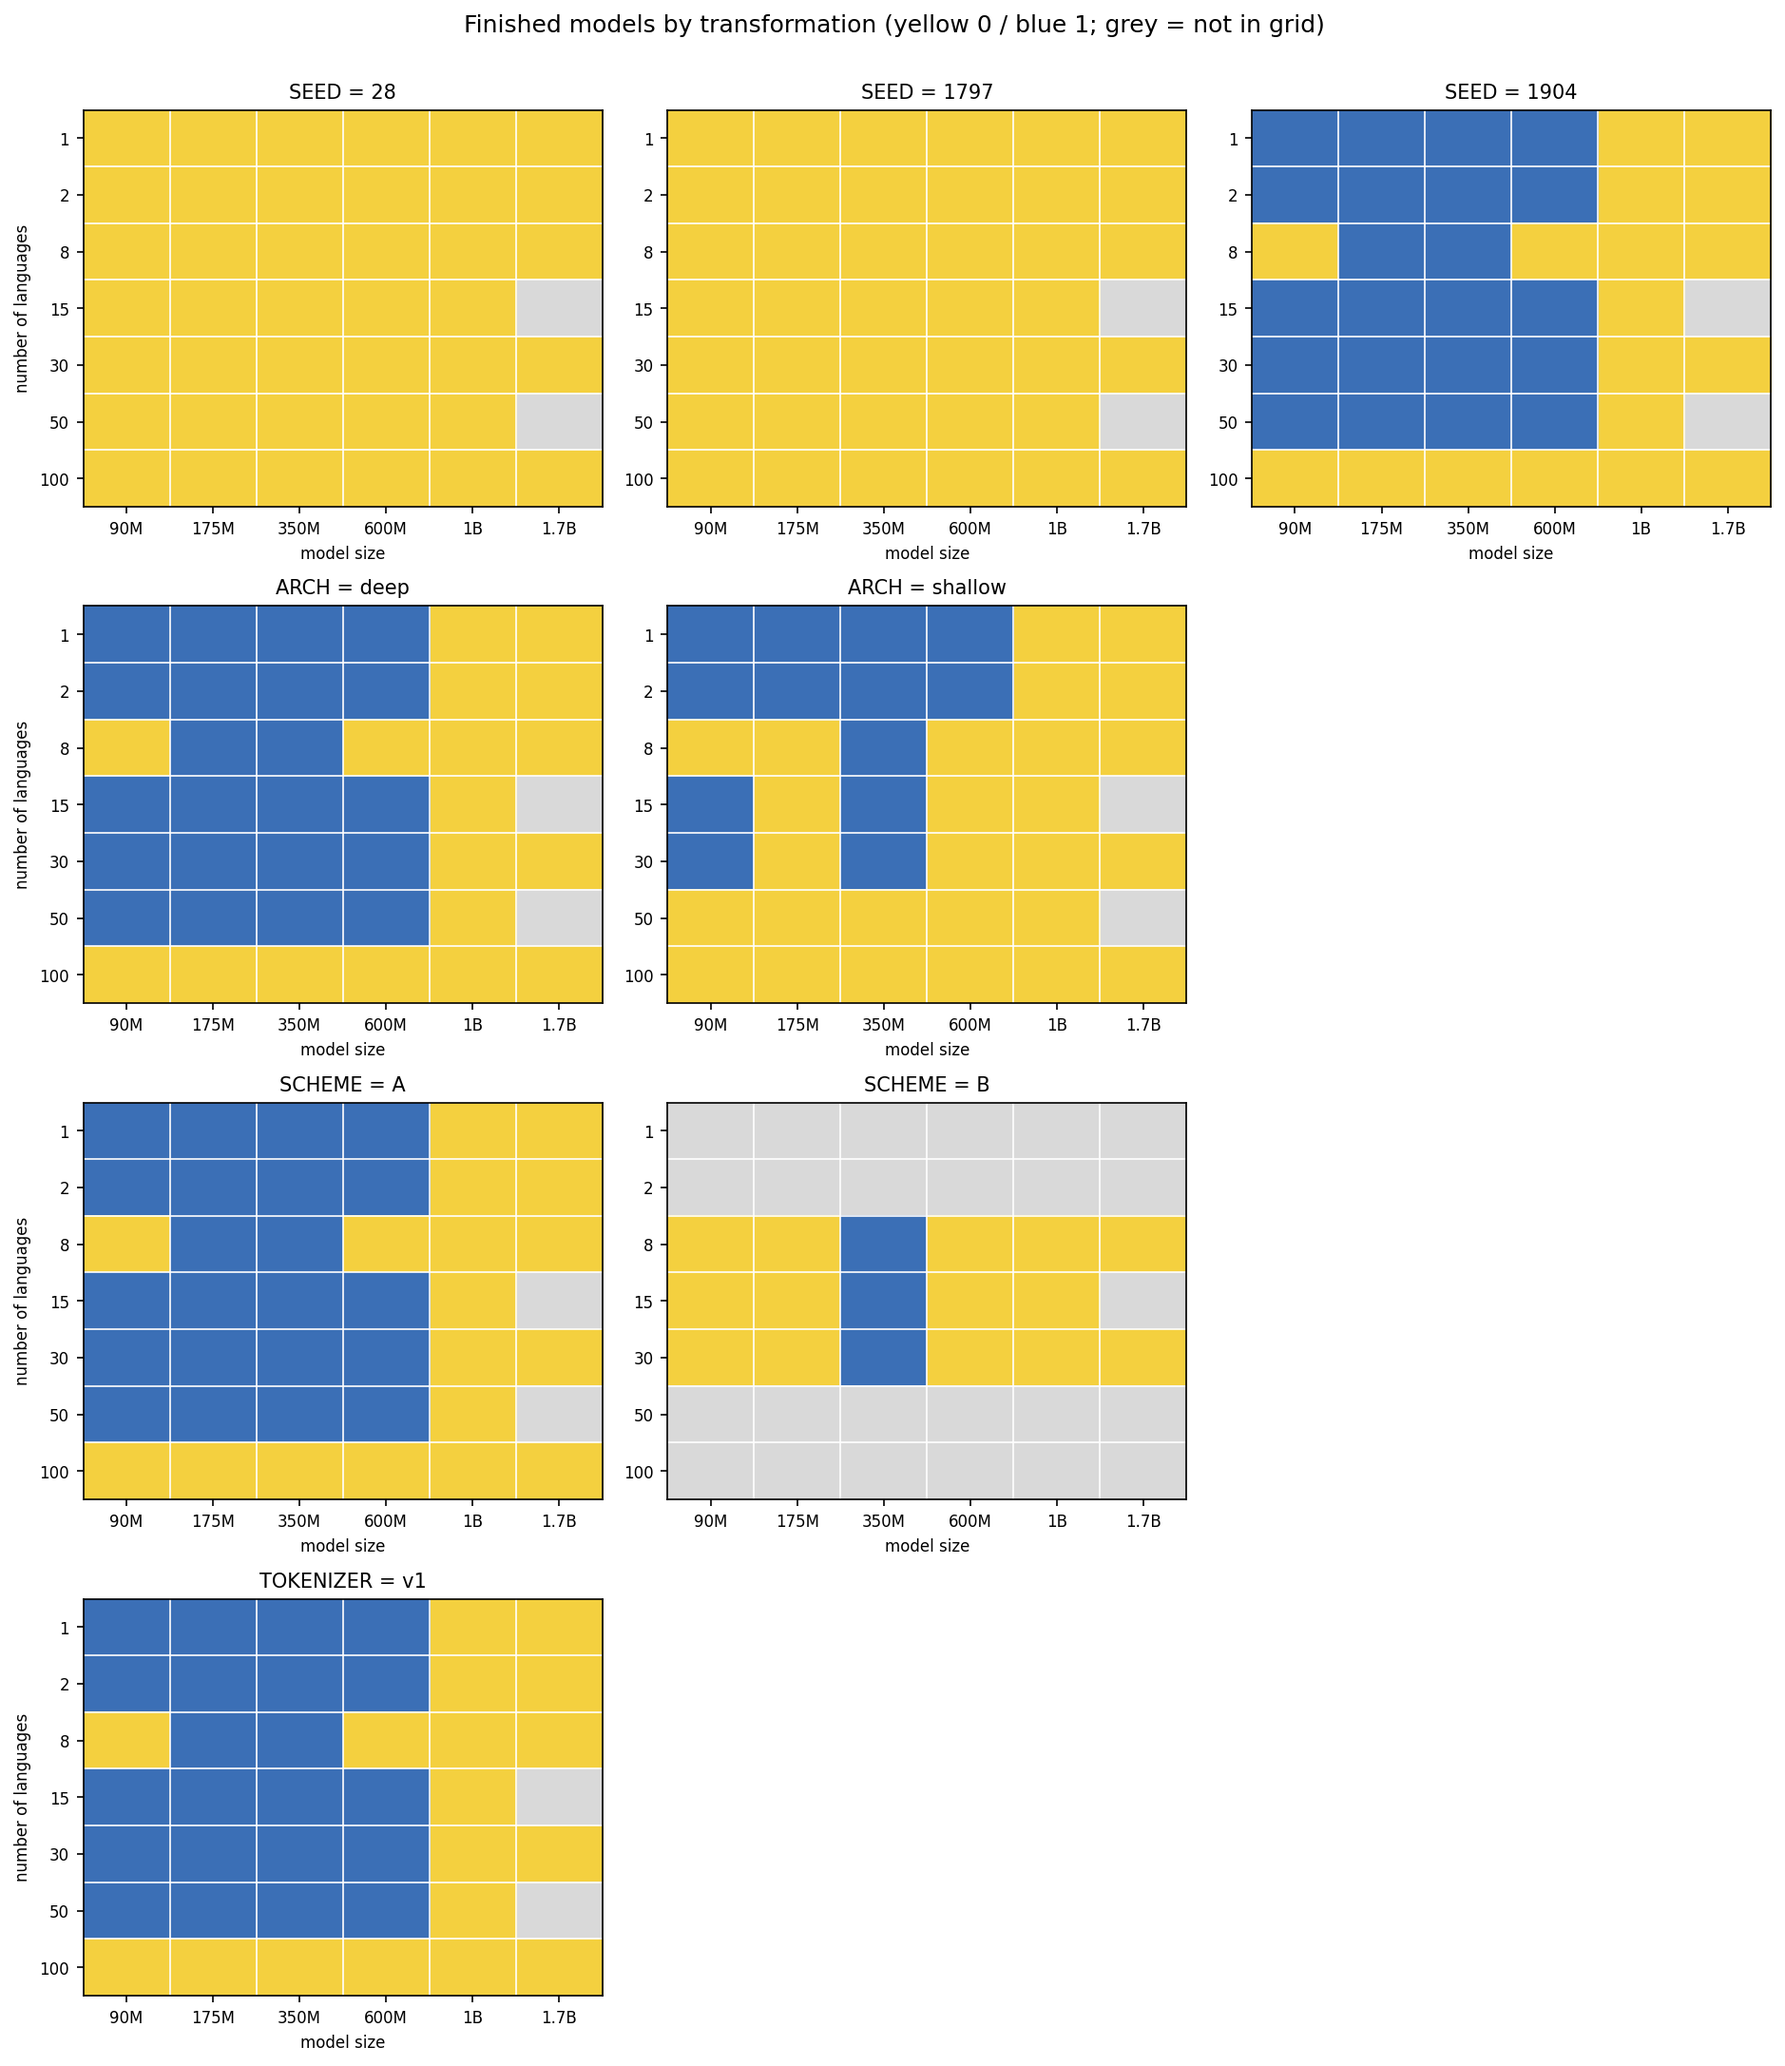
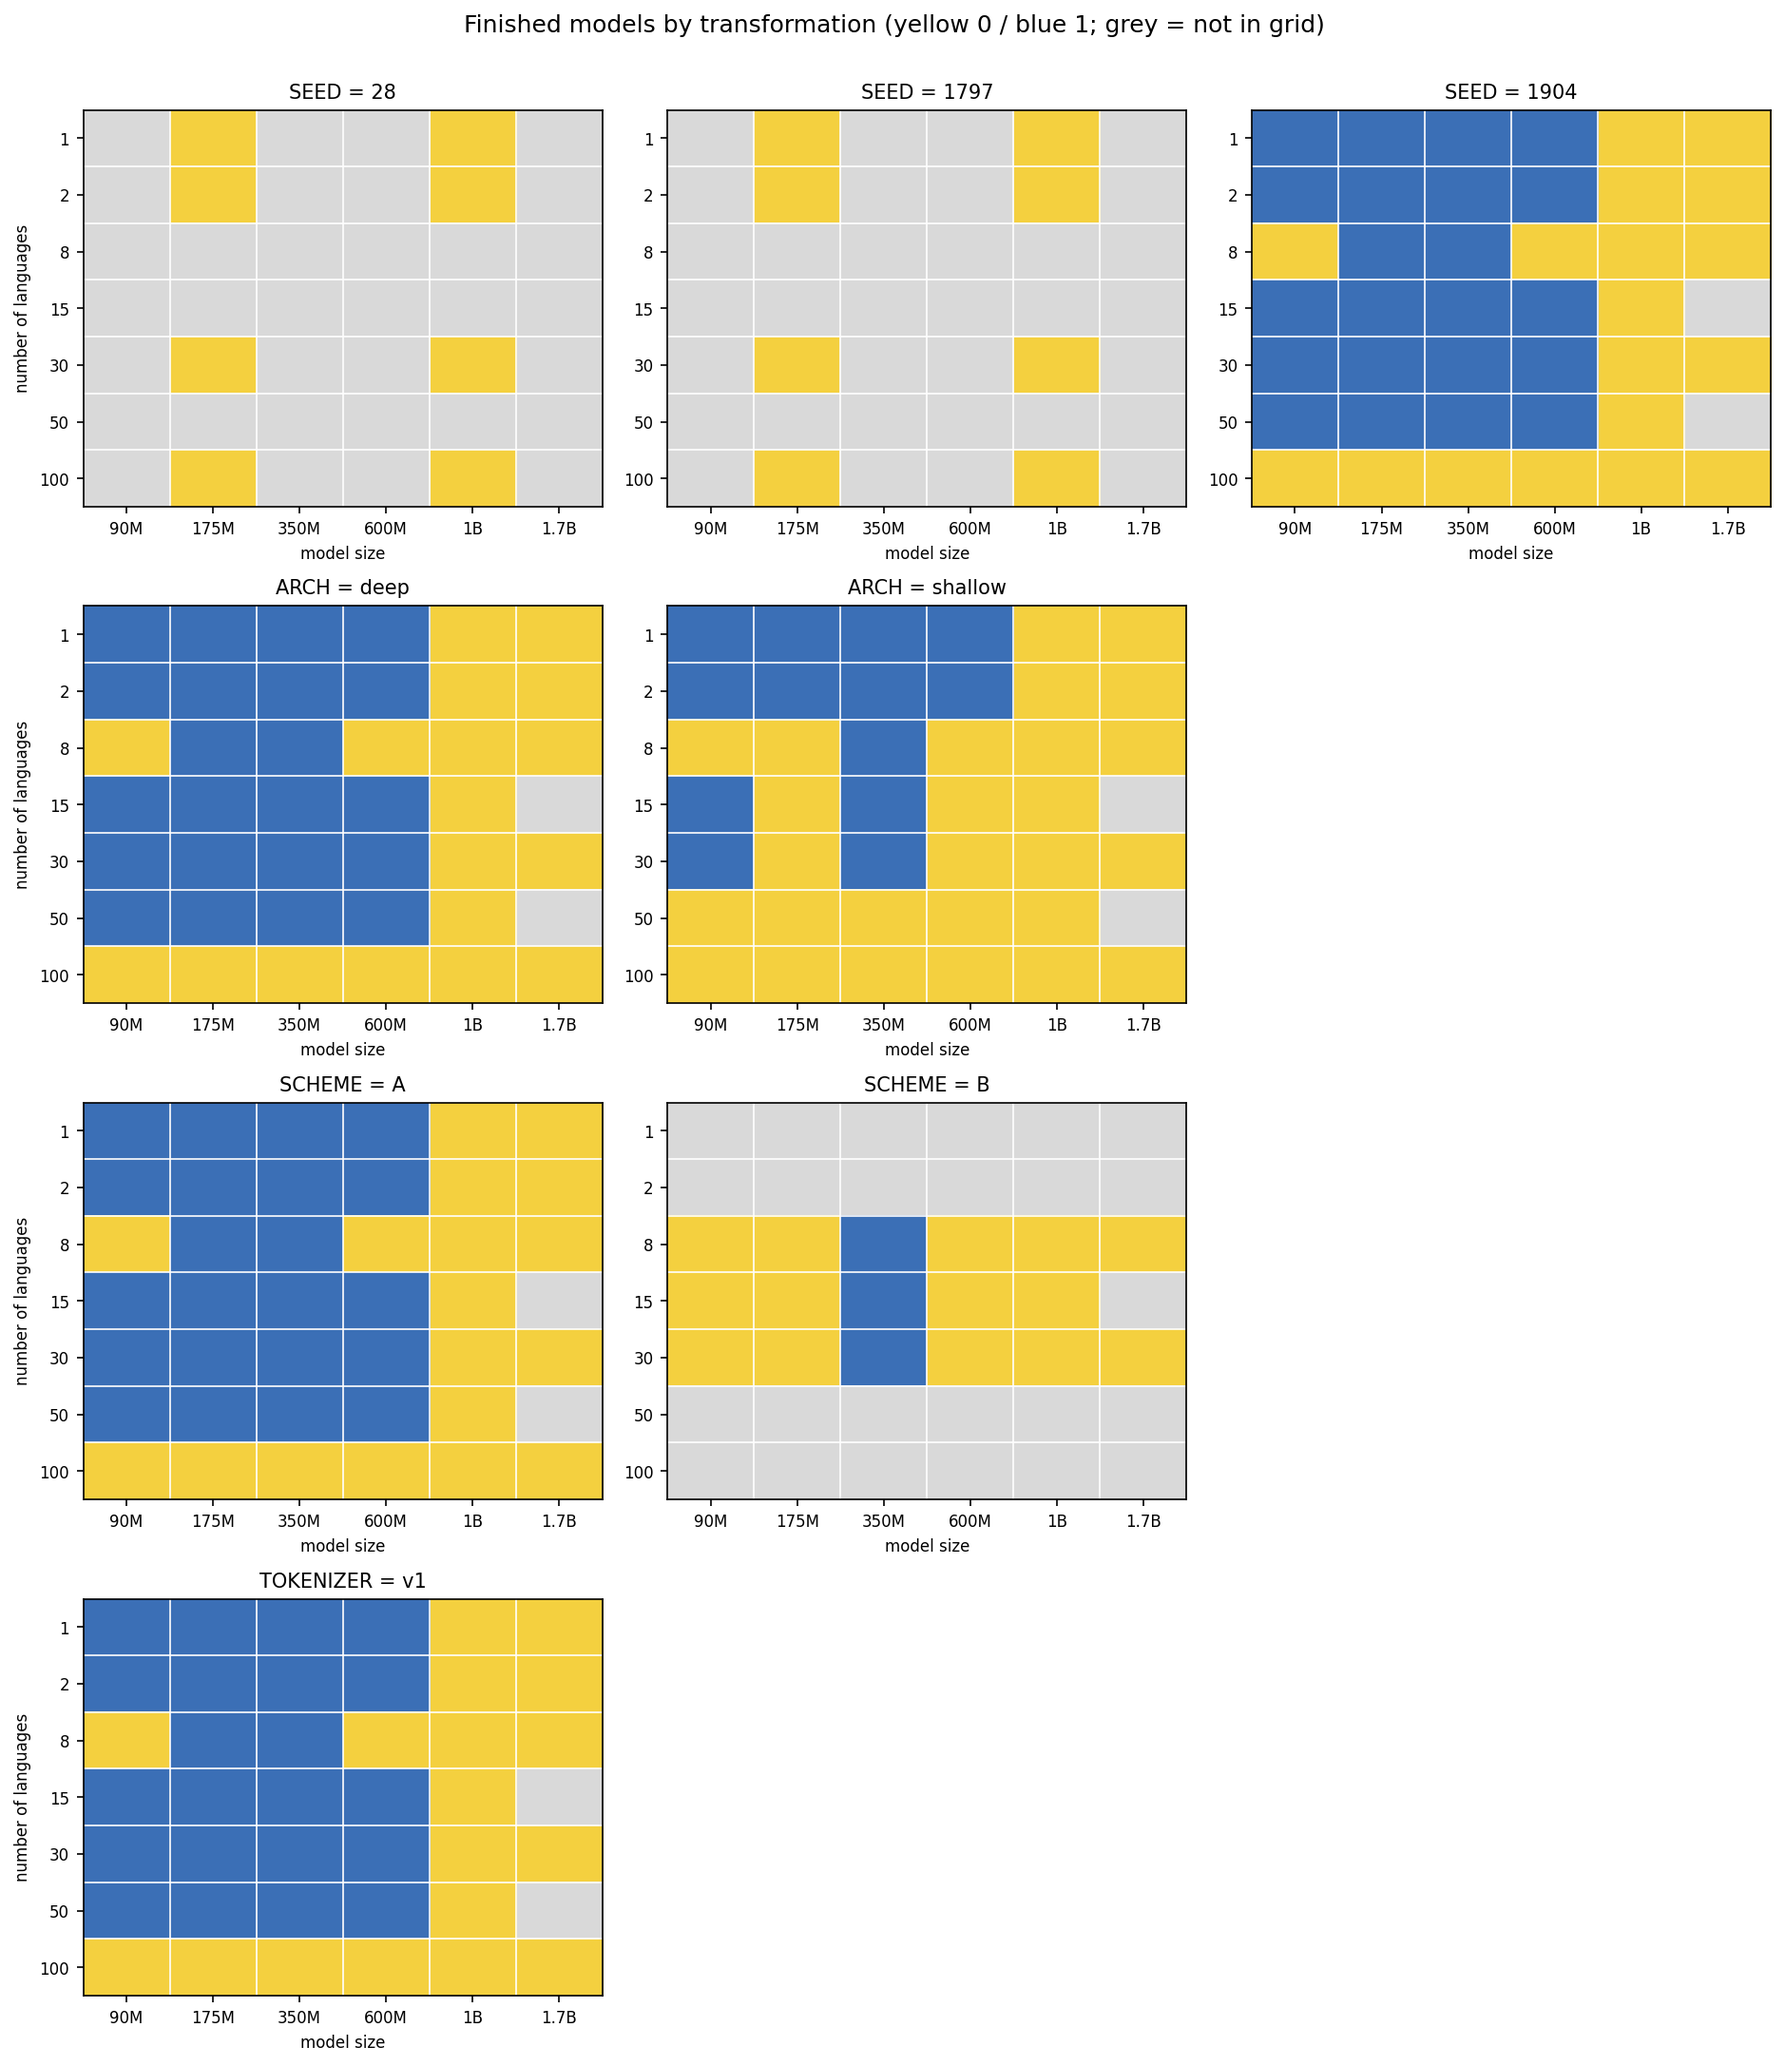
pretrain_progress: grey out seed panels where the grid has one seed
Seeds 28/1797 exist only on the x3 cells; the detailed heatmap showed
the other 32 cells permanently yellow. Mask with seeds_for, the way
scheme-B cells already were. Regenerated PNG included.

Verified: rendered — SEED=28/1797 panels now show only the 175M/1B
columns at L in {1,2,30,100}.

Changed region(s): [[0.0309, 0.0308, 0.3397, 0.2467], [0.3706, 0.0308, 0.6794, 0.2467]]

diff --git a/src/pretrain/pretrain_progress.py b/src/pretrain/pretrain_progress.py
@@ -302,6 +302,13 @@ def update_plots(root: Path = CKPT_ROOT, out_dir: Path = SCRIPT_DIR) -> None:
                 matrix = [[v if L in SCHEME_B_LANGS else float("nan")
                            for v in row]
                           for L, row in zip(LANG_SETTINGS, matrix)]
+            if key == "seed":
+                # Seeds 28/1797 exist only on the x3 cells (seeds_for); the
+                # single-seed cells would otherwise read as permanently
+                # missing runs.
+                matrix = [[v if value in seeds_for(size, L) else float("nan")
+                           for size, v in zip(SIZES, row)]
+                          for L, row in zip(LANG_SETTINGS, matrix)]
             _draw_grid(ax, matrix, binary_cmap.copy(), 1, annotate=False)
             ax.set_title(f"{label} = {value}", fontsize=10)
             if j == 0:
